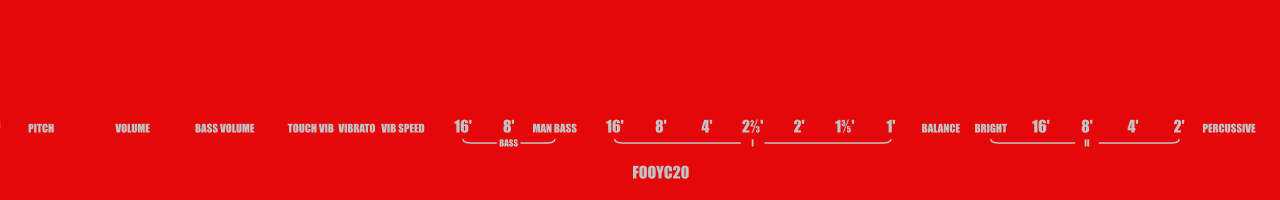
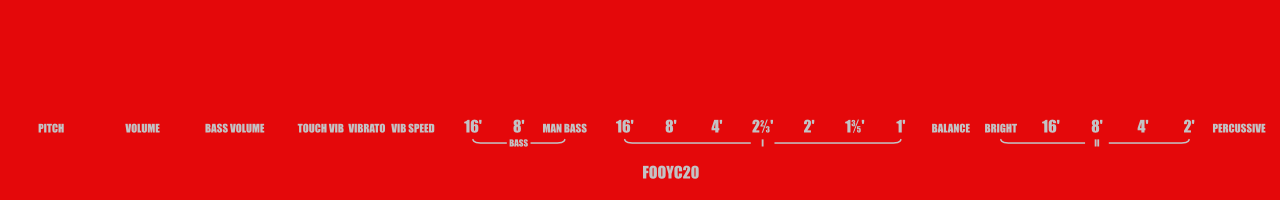
Move the controls 10 pixels to the right, to center the controls.

diff --git a/src/foo-yc20.cpp b/src/foo-yc20.cpp
@@ -106,7 +106,7 @@ YC20UI::YC20UI()
 	float pitch_x_long = 10.0;
 	float pitch_x_longest = 20.0;
 
-	float x = 5;
+	float x = 15.0;
 	float y = 15.0;
 
 	// Pitch, volume & bass volume
